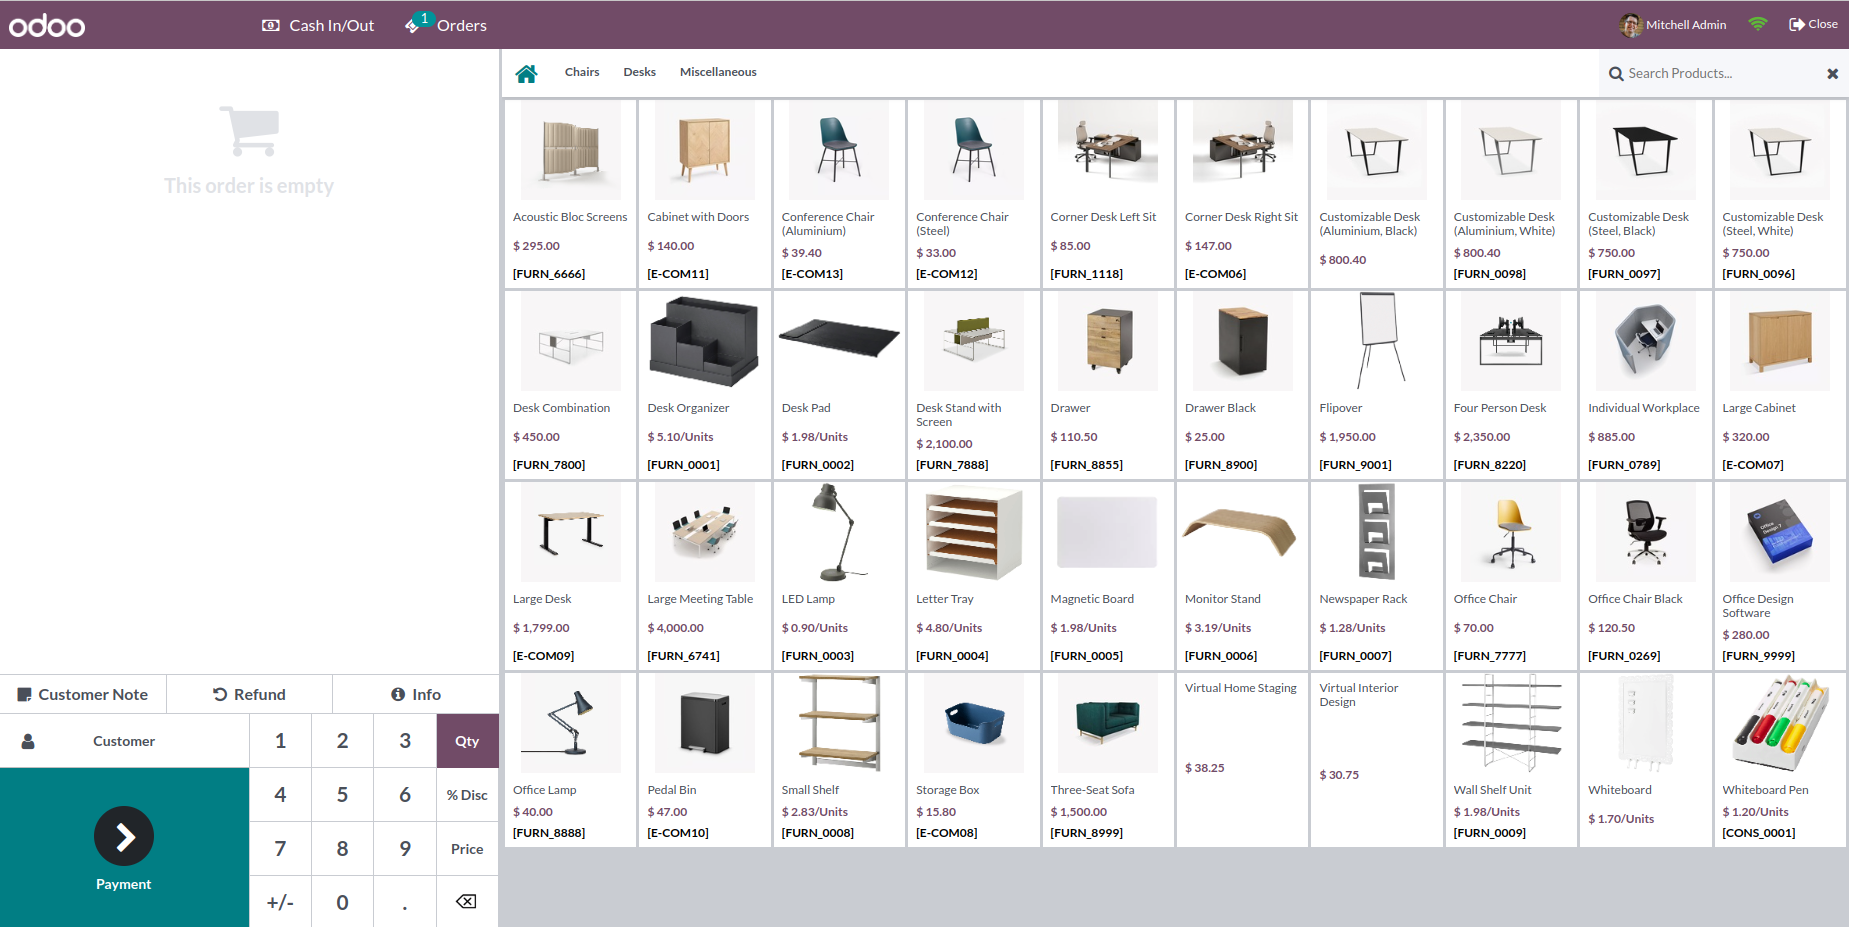
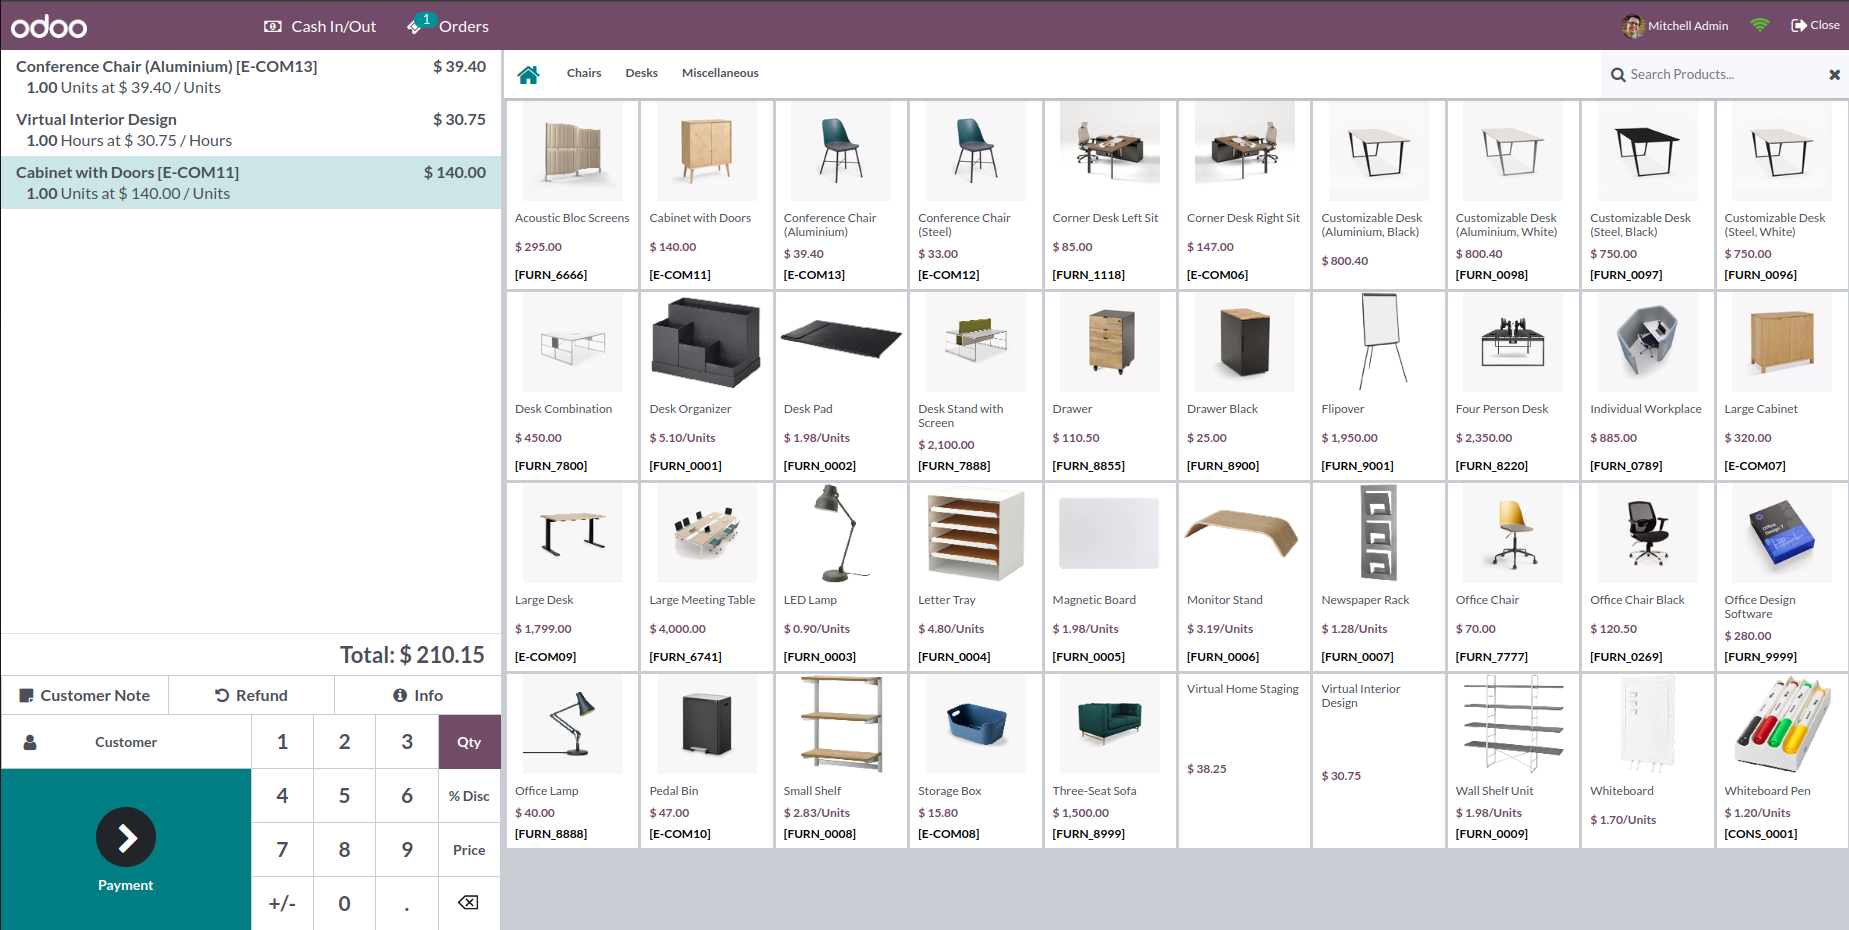
[ADD] abt_pos_internal_reference_v16

diff --git a/abt_pos_internal_reference/static/description/index.html b/abt_pos_internal_reference/static/description/index.html
@@ -3,7 +3,9 @@
     <section class="oe_container">
         <div class="oe_row">
             <div class="oe_row">
-                <h2 class="oe_slogan">Internal Reference Display in POS</h2>
+                <h2 class="oe_slogan">POS Internal References Module
+
+                </h2>
             </div>
         </div>
     </section>
@@ -11,27 +13,29 @@
         <div class="oe_row">
             <div class="oe_row">
                 <div class="col-lg-12 d-flex flex-column justify-content-center align-items-center">
-                    <h2 style="color: #212529 !important;">Features</h2>
+                    <h2 style="color: #212529 !important;">Overview</h2>
                 </div>
-                <div class="col-lg-12 d-flex flex-column justify-content-center align-items-center">
-                    <h3 style="color: #212529 !important;">Internal Reference Display</h3>
-                </div>
-                <li style="color:#202e3b !important; font-size:1.5rem !important">Integrates seamlessly with Odoo's POS system to fetch and display the internal reference number of products directly above their names in the POS interface. This information is crucial for staff who need quick identification of products during sales transactions.</li>
+                <li style="color:#202e3b !important; font-size:1.5rem !important">The POS Internal References module is designed to optimize your Point of Sale (POS) system by integrating internal references across critical areas. This functionality enhances product tracking, inventory management, and transaction accuracy, making it an essential tool for streamlined POS operations.</li>
+
                 
                 <div class="col-lg-12 d-flex flex-column justify-content-center align-items-center">
-                    <h3 style="color: #212529 !important;">Enhanced Usability</h3>
+                    <h3 style="color: #212529 !important;">Receipt Updates</h3>
                 </div>
-                <li style="color:#202e3b !important; font-size:1.5rem !important">By displaying the internal reference number prominently, the module improves usability by reducing the time required to locate specific products. This is particularly beneficial in busy retail environments where speed and accuracy are paramount.</li>
-                <div class="col-lg-12 d-flex flex-column justify-content-center align-items-center">
-                    <h3 style="color: #212529 !important;">Usage Scenario</h3>
-                </div>
-                <li style="color:#202e3b !important; font-size:1.5rem !important">Imagine a retail store using Odoo's POS system where each product has a unique internal reference number. With this module installed, whenever a product is added to a transaction in the POS interface, its internal reference number appears prominently above its name. This allows cashiers and sales associates to quickly verify product identity, check stock levels, and process transactions efficiently.</li>
+                <li style="color:#202e3b !important; font-size:1.5rem !important">Receipts generated by the POS system now include internal references for each purchased item. This addition provides clear identifiers on sales receipts, making returns, exchanges, and warranty claims more straightforward and effective. Enhanced receipt details ensure better customer service and efficient post-sale processing.</li>
         </div>
     </section>
 
     <section class="oe_container">
         <div class="oe_row oe_spaced">
-            <h2 class="oe_slogan" style="color:#875A7B;">Odoo enhances POS by streamlining retail operations by displaying its internal reference numbers in the product.</h2>
+            <div class="col-lg-12 d-flex flex-column justify-content-center align-items-center">
+                <h3 style="color: #212529 !important;">Product Screen Integration</h3>
+            </div>
+            <li style="color:#202e3b !important; font-size:1.5rem !important">The Product Screen now includes an "Internal Reference" field. This feature allows users to assign unique internal identifiers to each product, improving product identification and inventory management. Internal references make it easier to track products from the inventory to the sale, ensuring accurate stock levels and facilitating efficient stock management.</li>
+            
+            <div class="col-lg-12 d-flex flex-column justify-content-center align-items-center">
+                <h3 style="color: #212529 !important;">Order Line Enhancement</h3>
+            </div>
+            <li style="color:#202e3b !important; font-size:1.5rem !important">The Order Line section displays internal references alongside each product during transactions. This integration ensures precise order tracking and reduces errors by providing a clear and unique identifier for each item. This feature supports accurate sales processing and simplifies order verification.</li>
             <div class="oe_span12">
                 <div class="oe_demo oe_picture oe_screenshot">               
                     <IMG SRC="img_1.png">
@@ -39,6 +43,20 @@
             </div>
         </div>
     </section>
+
+    <section class="oe_container">
+        <div class="oe_row oe_spaced">
+            <div class="col-lg-12 d-flex flex-column justify-content-center align-items-center">
+                <h3 style="color: #212529 !important;">Receipt Updates</h3>
+            </div>
+            <li style="color:#202e3b !important; font-size:1.5rem !important">Receipts generated by the POS system now include internal references for each purchased item. This addition provides clear identifiers on sales receipts, making returns, exchanges, and warranty claims more straightforward and effective. Enhanced receipt details ensure better customer service and efficient post-sale processing.</li>            <div class="oe_span12">
+                <div class="oe_demo oe_picture oe_screenshot">               
+                    <IMG SRC="img_2.png">
+                </div>
+            </div>
+        </div>
+    </section>
+
     <br/><br/>
      <section class="container">
         <div class="row">

diff --git a/abt_pos_internal_reference/static/src/js/models.js b/abt_pos_internal_reference/static/src/js/models.js
@@ -1,0 +1,18 @@
+odoo.define('abt_pos_internal_reference.models', function (require) {
+    "use strict";
+
+    var { Order, Orderline } = require('point_of_sale.models');
+    const Registries = require('point_of_sale.Registries'); 
+
+    const PosSaleOrderline = (Orderline) => class PosSaleOrderline extends Orderline {
+        constructor(obj, options) {
+            super(...arguments);
+        }
+        export_for_printing() {
+            var result = super.export_for_printing(...arguments);
+            result.default_code =  this.get_product().default_code;
+            return result;
+        }
+    }
+    Registries.Model.extend(Orderline, PosSaleOrderline);
+});

diff --git a/abt_pos_internal_reference/__manifest__.py b/abt_pos_internal_reference/__manifest__.py
@@ -1,24 +1,25 @@
 # -*- coding: utf-8 -*-
 {
-    'name': 'Internal Reference Display in POS',
+    'name': 'POS Internal References',
     'author': "AskByte Technolab",
-    'summary': """Odoo enhances POS by streamlining retail operations by 
-        displaying its internal reference numbers in the product.
-    """,
+    'summary': """Added internal references for improved tracking.""",
     'description': """
-        The "Enhanced Product Display in POS" module enhances the Point of 
-        Sale (POS) functionality in Odoo by displaying the internal reference 
-        number of products above their names in the POS interface. This small 
-        yet impactful customization provides immediate visibility of product 
-        identifiers, aiding in faster and more accurate transactions.
+        Internal references are now integrated into the Product Screen, Order Lines, 
+        and Receipts, enhancing product management and accuracy throughout transactions.
     """,
     'category': 'Point of Sale',
     'version': '16.0.1.0',
     'depends': ['base', 'point_of_sale'],
     'assets': {
         'point_of_sale.assets': [
-            'abt_pos_internal_reference/static/src/xml/**/*',
+            'abt_pos_internal_reference/static/src/xml/Screens/ProductScreen/ProductItem.xml',
+            'abt_pos_internal_reference/static/src/xml/Screens/ReceiptScreen/ReceiptScreen.xml',
+            'abt_pos_internal_reference/static/src/js/models.js',
+            'abt_pos_internal_reference/static/src/xml/Screens/ProductScreen/Orderline.xml'
         ],
     },
     'license': 'LGPL-3',
+    "installable" : True,
+    "application" : True,
+    "auto_install": False,
 }
